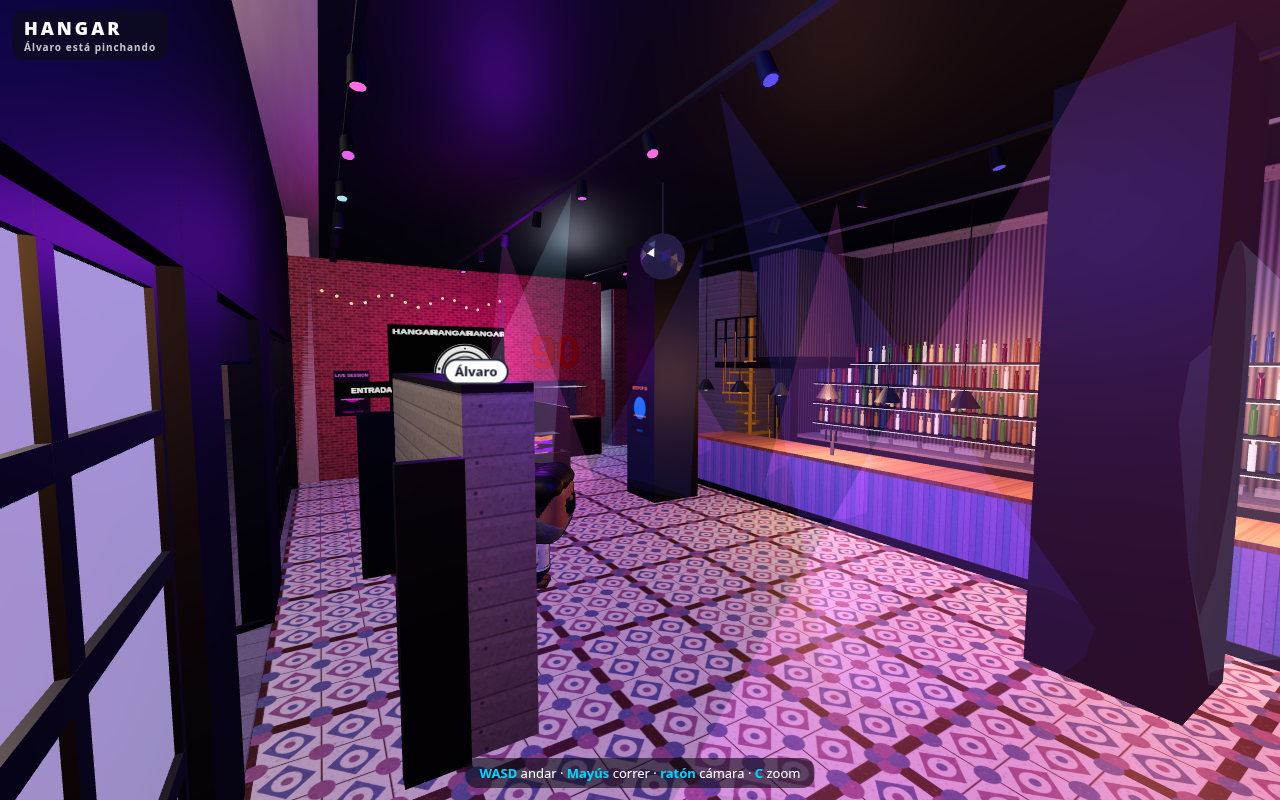
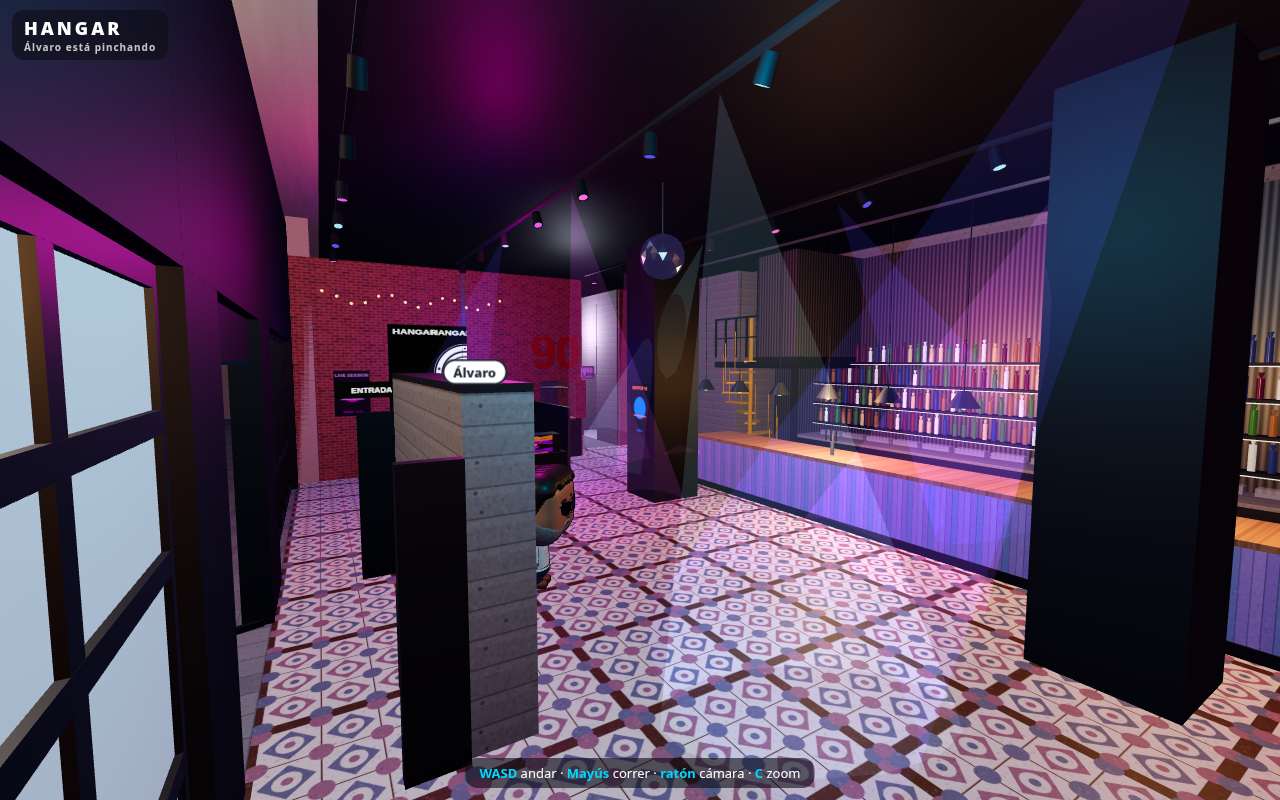
Cámara sin transparencias (brazo con colisión), pasillo y baños más amplios, música indie-rock

diff --git a/index.html b/index.html
@@ -818,7 +818,8 @@ const TS = new Map([[M.brick, 1], [M.tiles, 2.4], [M.concrete, 1.6], [M.corr, 0.
 function addG(g, mat, x = 0, y = 0, z = 0, ry = 0, rx = 0) { // g en coordenadas locales → mundo
   tmpM.makeRotationFromEuler(new THREE.Euler(rx, ry, 0)); tmpM.setPosition(x, y, z); g.applyMatrix4(tmpM); if (TS.has(mat) && g.attributes.uv) worldUV(g, TS.get(mat));
   if (!STATIC.has(mat)) STATIC.set(mat, []); STATIC.get(mat).push(g); return g; }
-const B = (x0, y0, z0, x1, y1, z1, mat) => addG(new THREE.BoxGeometry(Math.abs(x1 - x0), Math.abs(y1 - y0), Math.abs(z1 - z0)), mat, (x0 + x1) / 2, (y0 + y1) / 2, (z0 + z1) / 2);
+const CAMB = []; function camBox(x0, y0, z0, x1, y1, z1) { const a = [Math.min(x0, x1), Math.min(y0, y1), Math.min(z0, z1), Math.max(x0, x1), Math.max(y0, y1), Math.max(z0, z1)]; const h = a[4] - a[1], fx = a[3] - a[0], fz = a[5] - a[2]; if ((h >= 1.4 && Math.max(fx, fz) >= 0.25) || (a[1] >= 2.0 && Math.max(fx, fz) >= 0.5 && h >= 0.04)) CAMB.push(a); } // cajas para el brazo de cámara (sólo piezas grandes: paredes, columnas, forjados, dinteles)
+const B = (x0, y0, z0, x1, y1, z1, mat) => (camBox(x0, y0, z0, x1, y1, z1), addG(new THREE.BoxGeometry(Math.abs(x1 - x0), Math.abs(y1 - y0), Math.abs(z1 - z0)), mat, (x0 + x1) / 2, (y0 + y1) / 2, (z0 + z1) / 2));
 const BC = (x0, y0, z0, x1, y1, z1, mat) => { col(x0, z0, x1, z1); return B(x0, y0, z0, x1, y1, z1, mat); };
 const CYL = (r, h, mat, x, y, z, seg = 12, r2) => addG(new THREE.CylinderGeometry(r2 != null ? r2 : r, r, h, seg), mat, x, y + h / 2, z);
 const PL = (w, h, mat, x, y, z, ry = 0, rx = 0) => addG(new THREE.PlaneGeometry(w, h), mat, x, y, z, ry, rx);
@@ -831,24 +832,25 @@ function mergeUV(list) { let nv = 0, ni = 0; for (const g of list) { nv += g.att
 const dyn = (mesh, parent = scene) => { parent.add(mesh); return mesh; };
 // ---------- PLANO (px del plano 1 → m: X=(px-249)/32-11.44, Z=(py-360)/32) ----------
 const XL = -11.44, XR = 11.44, ZB = -10.56, H = 4.8, T = 0.22;
-const P = { banoChicos: [-11.44, -10.56, -7.6, -8.22], pasillo: [-11.44, -8.22, -6.56, -7.22], banoChicas: [-11.44, -7.22, -8.06, -4.53], guardarropa: [-8.06, -7.22, -6.56, -4.53],
+const ZN = -8.40, ZS = -6.62, ZE = -3.6; // pasillo de baños ensanchado (~1.66 m libres) y baños más grandes
+const P = { banoChicos: [-11.44, -10.56, -7.6, ZN], pasillo: [-11.44, ZN, -6.56, ZS], banoChicas: [-11.44, ZS, -8.06, ZE], guardarropa: [-8.06, ZS, -6.56, ZE],
   notch: [-5.19, -10.56, -3.13, -9.25], botellas: [-1.7, -10.56, 6.81, -9.69], camareros: [-3.13, -9.69, 6.81, -8.28], barra: [-4.25, -8.28, 6.81, -7.34], columna: [-2.31, -6.69, -1.31, -5.69],
   dj: [-6.56, -5.19, -3.97, -1.88], escenario: [7.81, -7.34, 11.44, 0], backstage: [6.81, -10.56, 11.44, -7.34], tabique: [-0.25, -1.72, 3.4, -1.25], puerta: [0.53, 2.97], crisIzq: [-6.0, -0.66], crisDer: [3.84, 10.06] };
-const INT = [{ x0: -6.56, z0: -10.56, x1: 11.44, z1: 0 }, { x0: -11.44, z0: -10.56, x1: -6.56, z1: -4.53 }]; // zonas interiores (para cámara/música)
+const INT = [{ x0: -6.56, z0: -10.56, x1: 11.44, z1: 0 }, { x0: -11.44, z0: -10.56, x1: -6.56, z1: ZE }]; // zonas interiores (para cámara/música)
 // --- suelos
-B(-6.56, -0.05, -10.56, 11.44, 0, 0, M.tiles); B(-7.6, -0.05, -8.22, -6.56, 0, -7.22, M.tiles); B(-11.44, -0.05, -10.56, -7.6, 0, -8.22, M.btiles); B(-11.44, -0.05, -7.22, -8.06, 0, -4.53, M.btiles); B(-11.44, -0.05, -8.22, -7.6, 0, -7.22, M.concrete); B(-8.06, -0.05, -7.22, -6.56, 0, -4.53, M.darkwood);
-B(-7.6, -0.05, -10.56, -6.56, 0, -8.22, M.tiles);
+B(-6.56, -0.05, -10.56, 11.44, 0, 0, M.tiles); B(-7.6, -0.05, ZN, -6.56, 0, ZS, M.tiles); B(-11.44, -0.05, -10.56, -7.6, 0, ZN, M.btiles); B(-11.44, -0.05, ZS, -8.06, 0, ZE, M.btiles); B(-11.44, -0.05, ZN, -7.6, 0, ZS, M.concrete); B(-8.06, -0.05, ZS, -6.56, 0, ZE, M.darkwood);
+B(-7.6, -0.05, -10.56, -6.56, 0, ZN, M.tiles);
 B(-3.13, 0, -9.69, 6.81, 0.06, -8.28, M.darkwood); // tarima de camareros
 // --- techo (solo se ve desde abajo)
 const CEIL = new THREE.Group(); scene.add(CEIL);
-for (const [x0, z0, x1, z1] of [[-11.44, -10.56, 11.44, 0], [-11.44, -10.56, -6.56, -4.53]]) { if (x0 === -11.44 && x1 === 11.44) { const g = new THREE.PlaneGeometry(x1 - -6.56, z1 - z0); const m = new THREE.Mesh(g, M.ceil); m.rotation.x = Math.PI / 2; m.position.set((x1 + -6.56) / 2, H, (z0 + z1) / 2); CEIL.add(m); } else { const m = new THREE.Mesh(new THREE.PlaneGeometry(x1 - x0, z1 - z0), M.ceil); m.rotation.x = Math.PI / 2; m.position.set((x0 + x1) / 2, H - 0.6, (z0 + z1) / 2); CEIL.add(m); } }
+for (const [x0, z0, x1, z1] of [[-11.44, -10.56, 11.44, 0], [-11.44, -10.56, -6.56, ZE]]) { if (x0 === -11.44 && x1 === 11.44) { const g = new THREE.PlaneGeometry(x1 - -6.56, z1 - z0); const m = new THREE.Mesh(g, M.ceil); m.rotation.x = Math.PI / 2; m.position.set((x1 + -6.56) / 2, H, (z0 + z1) / 2); CEIL.add(m); } else { const m = new THREE.Mesh(new THREE.PlaneGeometry(x1 - x0, z1 - z0), M.ceil); m.rotation.x = Math.PI / 2; m.position.set((x0 + x1) / 2, H - 0.6, (z0 + z1) / 2); CEIL.add(m); } }
 // --- muros perimetrales
 BC(XL - T, 0, ZB - T, XR + 1, H + 0.2, ZB, M.concrete); // fondo (por fuera)
 B(-6.56, 0, ZB, -5.19, H, ZB + 0.02, M.brick); // tramo de ladrillo visible al fondo
 BC(...[P.notch[0], 0, P.notch[1], P.notch[2], H, P.notch[3]], M.concrete); // muesca: no es del local → muro macizo
-BC(XL - T, 0, ZB, XL, H, -4.53, M.concrete); // izquierda baños
-BC(-6.56 - T, 0, -4.53, -6.56, H, 0, M.brick); // izquierda junto a la cabina DJ
-BC(XL, 0, -4.53 - T / 2, -6.56, H, -4.53 + T / 2, M.concrete); // exterior bajo baño chicas/guardarropa
+BC(XL - T, 0, ZB, XL, H, ZE, M.concrete); // izquierda baños
+BC(-6.56 - T, 0, ZE, -6.56, H, 0, M.brick); // izquierda junto a la cabina DJ
+BC(XL, 0, ZE - T / 2, -6.56, H, ZE + T / 2, M.concrete); // exterior bajo baño chicas/guardarropa
 BC(XR, 0, ZB, XR + 1, H + 0.2, 0.3, M.brick); // derecha (escenario)
 // --- fachada: machones, cristaleras con cuadrícula negra, puerta
 const FZ = 0.12; const pier = (x0, x1) => { BC(x0, 0, -0.02, x1, H, FZ + 0.12, M.black); };
@@ -864,19 +866,19 @@ crist(...P.crisIzq);
   const leaf = new THREE.Mesh(new THREE.PlaneGeometry(x1 - x0, 2.6), M.glass); leaf.position.set((x1 - x0) / 2 * (s ? -1 : 1), 1.3, 0); g.add(leaf); const fr = new THREE.Mesh(new THREE.BoxGeometry(x1 - x0, 0.06, 0.06), M.frame); fr.position.set(leaf.position.x, 2.6, 0); g.add(fr); const fr2 = fr.clone(); fr2.position.y = 0.03; g.add(fr2);
   g.position.set(s ? b : a, 0, FZ - 0.05); g.rotation.y = s ? 1.25 : -1.25; scene.add(g); } B(a, 2.6, FZ - 0.05, b, 3.0, FZ + 0.05, M.frame); }
 // --- baños: tabiques con huecos de puerta (sin puertas)
-const BT = 0.12, DOOR = [-10.0, -8.85];
-BC(-7.6 - BT / 2, 0, ZB, -7.6 + BT / 2, H, -8.22, M.brick); // derecha baño chicos
-BC(XL, 0, -8.22 - BT / 2, DOOR[0], H, -8.22 + BT / 2, M.concrete); BC(DOOR[1], 0, -8.22 - BT / 2, -7.6, H, -8.22 + BT / 2, M.concrete); B(DOOR[0], 2.2, -8.22 - BT / 2, DOOR[1], H, -8.22 + BT / 2, M.concrete);
-BC(XL, 0, -7.22 - BT / 2, DOOR[0], H, -7.22 + BT / 2, M.concrete); BC(DOOR[1], 0, -7.22 - BT / 2, -6.56, H, -7.22 + BT / 2, M.brick); B(DOOR[0], 2.2, -7.22 - BT / 2, DOOR[1], H, -7.22 + BT / 2, M.concrete);
-BC(-8.06 - BT / 2, 0, -7.22, -8.06 + BT / 2, H, -4.53, M.concrete); // entre baño chicas y guardarropa
+const BT = 0.12, DOOR = [-10.3, -9.0];
+BC(-7.6 - BT / 2, 0, ZB, -7.6 + BT / 2, H, ZN, M.brick); // derecha baño chicos
+BC(XL, 0, ZN - BT / 2, DOOR[0], H, ZN + BT / 2, M.concrete); BC(DOOR[1], 0, ZN - BT / 2, -7.6, H, ZN + BT / 2, M.concrete); B(DOOR[0], 2.2, ZN - BT / 2, DOOR[1], H, ZN + BT / 2, M.concrete);
+BC(XL, 0, ZS - BT / 2, DOOR[0], H, ZS + BT / 2, M.concrete); BC(DOOR[1], 0, ZS - BT / 2, -6.56, H, ZS + BT / 2, M.brick); B(DOOR[0], 2.2, ZS - BT / 2, DOOR[1], H, ZS + BT / 2, M.concrete);
+BC(-8.06 - BT / 2, 0, ZS, -8.06 + BT / 2, H, ZE, M.concrete); // entre baño chicas y guardarropa
 // guardarropa: frente a la sala con mostrador y ventanilla
-BC(-6.56 - BT / 2, 0, -7.22, -6.56 + BT / 2, 1.05, -4.53, M.black); B(-6.56 - BT / 2, 2.1, -7.22, -6.56 + BT / 2, H, -4.53, M.brick); B(-6.56 - 0.25, 1.05, -6.9, -6.56 + 0.25, 1.1, -4.85, M.wood);
-for (const z of [-7.22, -4.53]) B(-6.56 - BT / 2, 1.05, z - 0.15, -6.56 + BT / 2, 2.1, z + 0.15, M.brick);
-for (let i = 0; i < 12; i++) { const z = -7.0 + i * 0.2; CYL(0.012, 0.3, M.metal, -7.3, 1.55, z, 6); } B(-7.9, 1.85, -7.1, -7.0, 1.88, -4.7, M.metal); // perchas
+BC(-6.56 - BT / 2, 0, ZS, -6.56 + BT / 2, 1.05, -5.3, M.black); B(-6.56 - BT / 2, 2.1, ZS, -6.56 + BT / 2, H, -5.3, M.brick); BC(-6.56 - BT / 2, 0, -5.3, -6.56 + BT / 2, H, ZE, M.brick); B(-6.56 - 0.25, 1.05, ZS + 0.25, -6.56 + 0.25, 1.1, -5.45, M.wood);
+for (const z of [ZS, -5.3]) B(-6.56 - BT / 2, 1.05, z - 0.15, -6.56 + BT / 2, 2.1, z + 0.15, M.brick);
+for (let i = 0; i < 12; i++) { const z = -6.4 + i * 0.22; CYL(0.012, 0.3, M.metal, -7.3, 1.55, z, 6); } B(-7.9, 1.85, -6.5, -7.0, 1.88, -3.8, M.metal); // perchas
 // sanitarios (decoración)
 const wc = (x, z, ry) => { const g = new THREE.Group(); const b = new THREE.Mesh(new THREE.CylinderGeometry(0.2, 0.17, 0.4, 14), M.white); b.position.y = 0.2; g.add(b); const t = new THREE.Mesh(new THREE.BoxGeometry(0.4, 0.4, 0.16), M.white); t.position.set(0, 0.55, -0.22); g.add(t); g.position.set(x, 0, z); g.rotation.y = ry; scene.add(g); col(x - 0.3, z - 0.35, x + 0.3, z + 0.3); };
-wc(-11.0, -10.0, Math.PI / 2); wc(-11.0, -5.2, Math.PI / 2); for (const [z0] of [[-9.0]]) BC(-8.4, 0.75, -10.5, -7.7, 0.85, -9.3, M.white); BC(-8.4, 0.75, -6.2, -7.7 + 0.35, 0.85, -4.65, M.white);
-PL(1.0, 0.7, std({ color: '#9fb0c0', metalness: 0.9, roughness: 0.1 }), -7.68, 1.45, -9.9, -Math.PI / 2); PL(1.0, 0.7, std({ color: '#9fb0c0', metalness: 0.9, roughness: 0.1 }), -8.12, 1.45, -5.4, -Math.PI / 2);
+wc(-11.0, -10.0, Math.PI / 2); wc(-11.0, -4.2, Math.PI / 2); for (const [z0] of [[-9.0]]) BC(-8.4, 0.75, -10.5, -7.7, 0.85, -9.3, M.white); BC(-8.6, 0.75, -5.4, -8.12, 0.85, -4.0, M.white);
+PL(1.0, 0.7, std({ color: '#9fb0c0', metalness: 0.9, roughness: 0.1 }), -7.68, 1.45, -9.9, -Math.PI / 2); PL(1.0, 0.7, std({ color: '#9fb0c0', metalness: 0.9, roughness: 0.1 }), -8.13, 1.45, -4.7, -Math.PI / 2);
 // --- cabina DJ elevada
 const DJ = { x: -5.55, z: -3.55, y: 0.62 };
 { const [x0, z0, x1, z1] = P.dj; col(x0, z0, x1, z1); B(x0, 0, z0, x1, 0.6, z1, M.black); B(x0, 0.6, z0, x1, 0.62, z1, M.darkwood);
@@ -1081,7 +1083,7 @@ const LAMPS = []; for (const [x, z] of [[-12, 8.7], [2.4, 8.7], [-26, 8.7], [14.
 { const c = cv(128, 128, (x, w, h) => { const g = x.createRadialGradient(64, 64, 0, 64, 64, 64); g.addColorStop(0, 'rgba(255,214,160,0.55)'); g.addColorStop(1, 'rgba(255,214,160,0)'); x.fillStyle = g; x.fillRect(0, 0, w, h); }); const t = new THREE.CanvasTexture(c); t.colorSpace = THREE.SRGBColorSpace; const mat = new THREE.MeshBasicMaterial({ map: t, transparent: true, blending: THREE.AdditiveBlending, depthWrite: false });
   for (const L of LAMPS) { const m = new THREE.Mesh(new THREE.PlaneGeometry(11, 11), mat); m.rotation.x = -Math.PI / 2; m.position.set(L.x, 0.02, L.z); scene.add(m); } }
 // límites: no se pisa la avenida ni la calle lateral (bordillo), ni detrás del edificio
-col(-80, CURB, 80, CURB + 40); col(15.2, -60, 40, CURB + 1); col(-80, -60, 12.4, -10.81); col(-80, -60, -60, 20); col(12.4, -60, 15.2, -24); col(-6.56, -10.81, XL, -4.53 - 0.11);
+col(-80, CURB, 80, CURB + 40); col(15.2, -60, 40, CURB + 1); col(-80, -60, 12.4, -10.81); col(-80, -60, -60, 20); col(12.4, -60, 15.2, -24); /* (antes un colisor tapaba toda la zona de baños) */
 // ---------- tráfico: coches, motos y autobuses (un sentido, de izq. a dcha.) ----------
 const CARS = []; const carCols = ['#b8bcc4', '#1e2a44', '#7a1e1e', '#e8e8e8', '#2a2a2e', '#3a5a3a', '#c0a060'];
 const LANES = [10.8, 14.4, 18.0, 21.6];
@@ -1104,7 +1106,7 @@ const PL_ = (c, i, d, x, y, z) => { const l = new THREE.PointLight(c, i, d, 1.6)
 const LIGHTS = { bar: PL_('#ffb860', 9, 9, 1.2, 2.3, -7.3), bar2: LITE ? null : PL_('#ffb860', 7, 8, 5.2, 2.3, -7.3), room1: PL_('#B03CFF', 15, 14, -1.5, 4.0, -3.0), room2: PL_('#FF2BD0', LITE ? 0 : 11, 12, 4.5, 4.0, -2.5),
   stage: PL_('#ff2a1a', 16, 10, 9.6, 3.8, -3.7), dj: PL_('#2A3CFF', 8, 6, -4.6, 2.6, -3.5), baths: PL_('#e8f0ff', 7, 9, -9.4, 3.6, -7.7), street: PL_('#ffd6a0', 16, 22, 2.4, 7.0, 8.0), street2: LITE ? null : PL_('#ffd6a0', 14, 22, -12, 7.0, 8.0), portico: PL_('#fff0d8', 11, 14, 1.5, 5.3, 2.0) };
 if (!LITE) { LIGHTS.stage.castShadow = false; }
-window.HW = { scene, COLL, P, DJ, STG, SPOTS, INT, CEIL, BLD, LITE, LIGHTS, RAILS, BEAMS, BALL, PARS, WARM, GARL, LED_C, LED_T, ledScreen, LEDM, updTraffic, CARS, ROOF, MARQ, bake: () => bakeStatic(m => (m === M.slats || m === M.awning || m === M.leaf) ? ROOF : null), M, H, XL, XR, ZB, CURB, PZ, PORT_H, DOWN };
+window.HW = { scene, COLL, P, DJ, STG, SPOTS, INT, CEIL, BLD, LITE, LIGHTS, RAILS, BEAMS, BALL, PARS, WARM, GARL, LED_C, LED_T, ledScreen, LEDM, updTraffic, CARS, ROOF, MARQ, CAMB, bake: () => bakeStatic(m => (m === M.slats || m === M.awning || m === M.leaf) ? ROOF : null), M, H, XL, XR, ZB, CURB, PZ, PORT_H, DOWN };
 })();
 </script>
 <script type="module">document.getElementById('logo').src = window.HANGAR_IMG.logo; // ===== HANGAR · juego (exploración libre) =====
@@ -1174,34 +1176,58 @@ function stepPlayer(dt) { const I = readInput(); const f = V3(-Math.sin(cam.yaw)
   if (mag > 0.05) { const ty = Math.atan2(want.x, want.z); const d = angDiff(P.yaw, ty); P.turn = d / dt; P.yaw += d * Math.min(1, dt * 10); } else P.turn = 0;
   const tv = mag > 0.05 ? want.normalize().multiplyScalar(spd) : V3(); P.vel.lerp(tv, Math.min(1, dt * 10)); P.pos.addScaledVector(P.vel, dt); collide(P.pos);
   ant.position.copy(P.pos); ant.rotation.y = P.yaw; ant.userData.update(dt, { speed: Math.hypot(P.vel.x, P.vel.z) / 2.4, grounded: true, turn: clamp(P.turn || 0, -6, 6) * 0.1 }); }
-// ---------- cámara (seguimiento + corte por plano cercano en interiores) ----------
+// ---------- cámara (seguimiento + brazo con colisión; sin ocultar geometría) ----------
 const cam = { yaw: 0, pitch: 0.32, target: V3() }; let camDist = TOUCH && innerHeight > innerWidth ? 6.4 : 5.6, camMode = 'follow', camFix = null;
 cam.yaw = P.yaw + Math.PI; cam.target.copy(P.pos).add(V3(0, 1.2, 0));
 function updCam(dt) { if (camMode !== 'follow') return; const tgt = P.pos.clone().add(V3(0, 1.25, 0)); cam.target.lerp(tgt, Math.min(1, dt * 8));
   const spd = Math.hypot(P.vel.x, P.vel.z); if (spd > 0.4 && T - lastManual > 1.6) cam.yaw += angDiff(cam.yaw, P.yaw + Math.PI) * Math.min(1, dt * 0.9 * spd / 2.4);
   const ins = inside(P.pos); const dist = camDist * (ins ? 1 : 1.15); const dir = V3(Math.sin(cam.yaw) * Math.cos(cam.pitch), Math.sin(cam.pitch), Math.cos(cam.yaw) * Math.cos(cam.pitch));
-  camera.position.copy(cam.target).addScaledVector(dir, dist); if (ins) camera.position.y = Math.min(camera.position.y, W.H + 2.5);
-  const near = Math.max(0.1, dist - (ins ? 2.0 : 2.6)); if (Math.abs(camera.near - near) > 0.01) { camera.near = near; camera.updateProjectionMatrix(); } camera.lookAt(cam.target); }
+  // brazo de cámara: nada se oculta ni se vuelve transparente; si hay una pared/techo entre el jugador y la cámara, la cámara se acerca
+  let hit = armCast(cam.target, dir, dist); if (hit < dist * 0.8) { const k = clamp(1 - hit / dist, 0, 1), pt = Math.min(1.0, cam.pitch + 0.6 * k); const d2 = V3(Math.sin(cam.yaw) * Math.cos(pt), Math.sin(pt), Math.cos(cam.yaw) * Math.cos(pt)); const h2 = armCast(cam.target, d2, dist); if (h2 >= hit * 0.9) { dir.copy(d2); hit = h2; } } /* en sitios estrechos la cámara sube para mirar por encima de la cabeza */ const want = Math.max(0.15, Math.min(dist, hit - 0.22)); armLen = want < armLen ? want : armLen + (want - armLen) * Math.min(1, dt * 3);
+  camera.position.copy(cam.target).addScaledVector(dir, armLen); if (camera.near !== 0.1) { camera.near = 0.1; camera.updateProjectionMatrix(); } camera.lookAt(cam.target); }
+let armLen = 5; const ARMB = W.CAMB.concat([[-11.6, W.H - 0.02, -10.7, 11.6, W.H + 3, 0.1], [-60, W.PORT_H - 0.05, -1, 12.8, W.PORT_H + 60, 4.4], [-11.6, W.H - 0.62, -10.7, -6.56, W.H, W.P.banoChicas[3]]]);
+function armCast(o, d, max) { let best = max; for (const b of ARMB) { let t0 = 0, t1 = best; let ok = true;
+    for (let k = 0; k < 3; k++) { const oo = k === 0 ? o.x : k === 1 ? o.y : o.z, dd = k === 0 ? d.x : k === 1 ? d.y : d.z, mn = b[k] - 0.12, mx = b[k + 3] + 0.12;
+      if (Math.abs(dd) < 1e-6) { if (oo < mn || oo > mx) { ok = false; break; } } else { let ta = (mn - oo) / dd, tb = (mx - oo) / dd; if (ta > tb) { const q = ta; ta = tb; tb = q; } if (ta > t0) t0 = ta; if (tb < t1) t1 = tb; if (t0 > t1) { ok = false; break; } } }
+    if (ok && t0 > 0.05 && t0 < best) best = t0; } return best; }
 function fitView() { camera.aspect = innerWidth / innerHeight; camera.fov = camera.aspect < 1 ? Math.min(78, 55 / Math.max(0.5, camera.aspect) ** 0.5) : 55; camera.updateProjectionMatrix(); renderer.setSize(innerWidth, innerHeight); }
 addEventListener('resize', fitView); fitView();
-// ---------- música (WebAudio sintetizada; adaptada del DJ de La Curva) ----------
-let AC = null, master = null, lp = null; const BPM = 122, BEAT = 60 / BPM; let nextBeat = 0, beatN = 0; let MUTE = Q.has('mute');
-function startAudio() { if (AC || MUTE) return; try { AC = new (window.AudioContext || window.webkitAudioContext)(); lp = AC.createBiquadFilter(); lp.type = 'lowpass'; lp.frequency.value = 18000; master = AC.createGain(); master.gain.value = 0; master.connect(lp); lp.connect(AC.destination); nextBeat = AC.currentTime + 0.1; $('hint').classList.add('off'); } catch (_) {} }
-function tone(f, d, type, v, slide, t) { const o = AC.createOscillator(), g = AC.createGain(); o.type = type; o.frequency.setValueAtTime(f, t); if (slide) o.frequency.exponentialRampToValueAtTime(Math.max(30, f * slide), t + d); g.gain.setValueAtTime(v, t); g.gain.exponentialRampToValueAtTime(0.001, t + d); o.connect(g); g.connect(master); o.start(t); o.stop(t + d + 0.02); }
-let NB = null; function noise(d, v, t, hp) { if (!NB) { NB = AC.createBuffer(1, AC.sampleRate * 0.3 | 0, AC.sampleRate); const ch = NB.getChannelData(0); for (let i = 0; i < ch.length; i++) ch[i] = (Math.random() * 2 - 1); }
-  const s = AC.createBufferSource(); s.buffer = NB; const f = AC.createBiquadFilter(); f.type = 'highpass'; f.frequency.value = hp || 6000; const g = AC.createGain(); g.gain.setValueAtTime(v, t); g.gain.exponentialRampToValueAtTime(0.001, t + d); s.connect(f); f.connect(g); g.connect(master); s.start(t); s.stop(t + d + 0.02); }
-const BASS = [55, 55, 65.4, 73.4, 55, 55, 82.4, 73.4], CH = [[261.6, 329.6, 392], [293.7, 349.2, 440], [246.9, 311.1, 370], [220, 277.2, 329.6]];
-function beatSound(b, t) { tone(120, 0.18, 'sine', 0.55, 0.3, t); noise(0.05, 0.1, t + BEAT / 2); if (b % 2) noise(0.14, 0.09, t, 1800); tone(BASS[b % 8], BEAT * 0.45, 'sawtooth', 0.09, 0, t + BEAT / 2);
-  if (b % 4 === 0) for (const f of CH[(b >> 4) & 3]) tone(f, 0.22, 'square', 0.03, 0, t); if (b % 8 === 6) tone(659.3 * ((b >> 3) % 2 ? 1 : 0.89), 0.3, 'triangle', 0.05, 0, t + BEAT * 0.5); }
-function updAudio() { if (!AC) return; while (nextBeat < AC.currentTime + 0.25) { beatSound(beatN++, nextBeat); nextBeat += BEAT; }
-  const d = P.pos.distanceTo(V3(W.DJ.x, 0, W.DJ.z)), ins = inside(P.pos); const vol = (ins ? 0.5 : 0.28) * clamp(1.4 - d / 30, 0.15, 1); master.gain.setTargetAtTime(vol, AC.currentTime, 0.2); lp.frequency.setTargetAtTime(ins ? 16000 : 900, AC.currentTime, 0.3); }
-const beatPhase = () => AC ? ((AC.currentTime - (nextBeat - BEAT)) / BEAT) : (T / BEAT) % 1;
+// ---------- música indie-rock (WebAudio procedural, original) ----------
+let AC = null, master = null, lp = null, gtr = null; const BPM = 124, BEAT = 60 / BPM, ST8 = BEAT / 2; let nextStep = 0, stepN = 0, beatN = 0, T0 = 0; let MUTE = Q.has('mute');
+// música INDIE-ROCK procedural (original): batería en directo, bajo a corcheas, guitarra rítmica rasgueada con saturación, arpegio jangle limpio
+function startAudio() { if (AC || MUTE) return; try { AC = new (window.AudioContext || window.webkitAudioContext)(); lp = AC.createBiquadFilter(); lp.type = 'lowpass'; lp.frequency.value = 18000; master = AC.createGain(); master.gain.value = 0; master.connect(lp); lp.connect(AC.destination);
+  const ws = AC.createWaveShaper(), cu = new Float32Array(512); for (let i = 0; i < 512; i++) { const x = i / 255.5 - 1; cu[i] = Math.tanh(x * 3.2); } ws.curve = cu; const gl = AC.createBiquadFilter(); gl.type = 'lowpass'; gl.frequency.value = 3200; gtr = AC.createGain(); gtr.gain.value = 0.5; gtr.connect(ws); ws.connect(gl); gl.connect(master);
+  nextStep = T0 = AC.currentTime + 0.1; $('hint').classList.add('off'); } catch (_) {} }
+function tone(f, d, type, v, slide, t, dest) { const o = AC.createOscillator(), g = AC.createGain(); o.type = type; o.frequency.setValueAtTime(f, t); if (slide) o.frequency.exponentialRampToValueAtTime(Math.max(30, f * slide), t + d); g.gain.setValueAtTime(v, t); g.gain.exponentialRampToValueAtTime(0.001, t + d); o.connect(g); g.connect(dest || master); o.start(t); o.stop(t + d + 0.02); }
+let NB = null; function noise(d, v, t, hp, type) { if (!NB) { NB = AC.createBuffer(1, AC.sampleRate * 0.5 | 0, AC.sampleRate); const ch = NB.getChannelData(0); for (let i = 0; i < ch.length; i++) ch[i] = (Math.random() * 2 - 1); }
+  const s = AC.createBufferSource(); s.buffer = NB; const f = AC.createBiquadFilter(); f.type = type || 'highpass'; f.frequency.value = hp || 6000; const g = AC.createGain(); g.gain.setValueAtTime(v, t); g.gain.exponentialRampToValueAtTime(0.001, t + d); s.connect(f); f.connect(g); g.connect(master); s.start(t); s.stop(t + d + 0.02); }
+// cuerda pulsada: diente de sierra con filtro que se cierra (guitarra sintética)
+function pluck(f, d, v, t, bright, dest) { const o = AC.createOscillator(), fl = AC.createBiquadFilter(), g = AC.createGain(); o.type = 'sawtooth'; o.frequency.setValueAtTime(f, t); o.detune.setValueAtTime(Math.random() * 8 - 4, t); fl.type = 'lowpass'; fl.Q.value = 2; fl.frequency.setValueAtTime(bright, t); fl.frequency.exponentialRampToValueAtTime(Math.max(200, bright * 0.18), t + d * 0.7);
+  g.gain.setValueAtTime(0.0001, t); g.gain.exponentialRampToValueAtTime(v, t + 0.004); g.gain.exponentialRampToValueAtTime(0.001, t + d); o.connect(fl); fl.connect(g); g.connect(dest || master); o.start(t); o.stop(t + d + 0.03); }
+// progresión E – C#m – A – B (bajo + voces de acorde)
+const PROG = [{ b: 82.41, c: [164.8, 246.9, 329.6, 415.3] }, { b: 69.3, c: [138.6, 207.7, 277.2, 329.6] }, { b: 55, c: [110, 164.8, 220, 277.2] }, { b: 61.74, c: [123.5, 185, 246.9, 311.1] }];
+const ARP = [0, 2, 1, 3, 2, 1, 3, 2], STRUM = [1, 0, 0.6, 0.7, 0, 0.7, 0.6, 0.8]; // acentos del rasgueo por corchea
+function stepSound(s, t) { const bar = s >> 3, e = s & 7, sec = bar % 16, ch = PROG[bar & 3], full = sec >= 4, chorus = sec >= 12, ROCK = LITE ? 0.8 : 1;
+  // batería: bombo en 1 y 3 (+ "y" del 3), caja en 2 y 4, charles a corcheas, crash al empezar sección
+  if (e === 0 || e === 4 || (full && e === 5 && bar % 2)) tone(110, 0.16, 'sine', 0.6, 0.35, t);
+  if (e === 2 || e === 6) { noise(0.16, 0.22, t, 1700, 'bandpass'); tone(190, 0.08, 'triangle', 0.18, 0.6, t); }
+  noise(e % 2 ? 0.03 : 0.05, e % 2 ? 0.05 : 0.08, t, 7000); if ((sec === 4 || sec === 12) && e === 0) noise(1.1, 0.12, t, 4500);
+  if (sec === 15 && e >= 4) tone(160 - e * 12, 0.12, 'sine', 0.35, 0.5, t); // redoble de toms
+  // bajo a corcheas (con quinta de paso)
+  if (full || e % 2 === 0) tone(e === 7 ? ch.b * 1.5 : ch.b, ST8 * 0.9, 'sawtooth', 0.07, 0, t);
+  // guitarra rítmica saturada (rasgueo con pequeño desfase entre cuerdas)
+  if (full && STRUM[e] > 0) { const v = 0.05 * STRUM[e] * (chorus ? 1.2 : 0.9); ch.c.forEach((f, k) => pluck(f, chorus ? 0.32 : 0.22, v, t + k * 0.008 * (e % 2 ? -1 : 1) + (e % 2 ? 0.024 : 0), 2600, gtr)); }
+  // arpegio jangle limpio (octava arriba), siempre en intro y en estrofas; en estribillo, melodía
+  if (!chorus || !LITE) { const f = ch.c[ARP[e]] * 2; if (!chorus) pluck(f, 0.4, 0.035 * ROCK, t, 4200); else if (e % 2 === 0) pluck(ch.c[(e >> 1) % 4] * 2 * (e === 6 ? 1.122 : 1), 0.5, 0.04, t, 3600); } }
+function updAudio() { if (!AC) return; while (nextStep < AC.currentTime + 0.25) { stepSound(stepN, nextStep); stepN++; beatN = stepN >> 1; nextStep += ST8; }
+  const d = P.pos.distanceTo(V3(W.DJ.x, 0, W.DJ.z)), ins = inside(P.pos); const vol = (ins ? 0.55 : 0.3) * clamp(1.4 - d / 30, 0.15, 1); master.gain.setTargetAtTime(vol, AC.currentTime, 0.2); lp.frequency.setTargetAtTime(ins ? 16000 : 900, AC.currentTime, 0.3); }
+const beatPhase = () => AC ? ((((AC.currentTime - T0) / BEAT) % 1) + 1) % 1 : (T / BEAT) % 1;
 // ---------- luces animadas ----------
 const LC = W.LED_C.getContext('2d'); let ledT = 0;
 function drawLED(t) { const w = 256, h = 128; LC.fillStyle = '#05050a'; LC.fillRect(0, 0, w, h); const hue = (t * 40) % 360; for (let i = 0; i < 16; i++) { const v = 0.5 + 0.5 * Math.sin(t * 3 + i * 0.7); LC.fillStyle = `hsl(${(hue + i * 12) % 360},90%,${20 + 40 * v}%)`; LC.fillRect(i * 16, h * (1 - v * 0.9), 14, h * v * 0.9); }
   LC.fillStyle = '#ffffff'; LC.font = 'bold 34px Arial Black, sans-serif'; LC.textAlign = 'center'; LC.globalAlpha = 0.85; LC.fillText('HANGAR', w / 2, 50 + Math.sin(t * 2) * 6); LC.globalAlpha = 1; for (let y = 0; y < h; y += 3) { LC.fillStyle = 'rgba(0,0,0,.25)'; LC.fillRect(0, y, w, 1); } W.LED_T.needsUpdate = true; }
 const COLS = ['#B03CFF', '#FF2BD0', '#2A3CFF', '#00D5FF'].map(c => new THREE.Color(c));
-function updLights(dt) { const b = beatPhase(), kick = Math.exp(-b * 5), bar = Math.floor((AC ? beatN : T / BEAT) / 4);
+function updLights(dt) { const b = beatPhase(), kick = Math.exp(-b * 5), bar = Math.floor((AC ? Math.max(0, (AC.currentTime - T0) / BEAT) : T / BEAT) / 4);
   W.BALL.rotation.y += dt * 0.8; const L = W.LIGHTS; L.room1.color.copy(COLS[bar & 3]); if (L.room2.intensity) L.room2.color.copy(COLS[(bar + 2) & 3]); L.room1.intensity = 9 + 6 * kick;
   L.dj.color.copy(COLS[(bar + 1) & 3]); L.dj.intensity = 5 + 5 * kick; L.stage.color.setHSL(((bar >> 2) & 1) ? 0.64 : 0.01, 1, 0.5); L.stage.intensity = 10 + 6 * kick;
   for (const [i, p] of W.PARS.entries()) p.material.color.copy(L.stage.color).multiplyScalar(0.8 + 1.4 * (((i + bar) % 3 === 0) ? kick : 0.4));
@@ -1222,7 +1248,7 @@ loop();
 // ---------- API de pruebas ----------
 window.GAME = { P, cam, W, ant, alv, camera, renderer,
   step(n = 1) { for (let i = 0; i < n; i++) update(1 / 60); renderer.render(scene, topCam || camera); updTags(); },
-  setInput(i) { INPUT = i; }, tp(x, z, yaw) { P.pos.set(x, 0, z); if (yaw != null) { P.yaw = yaw; cam.yaw = yaw + Math.PI; } cam.target.copy(P.pos).add(V3(0, 1.25, 0)); collide(P.pos); ant.position.copy(P.pos); ant.rotation.y = P.yaw; },
+  setInput(i) { INPUT = i; }, arm() { return armLen; }, tp(x, z, yaw) { P.pos.set(x, 0, z); if (yaw != null) { P.yaw = yaw; cam.yaw = yaw + Math.PI; } cam.target.copy(P.pos).add(V3(0, 1.25, 0)); collide(P.pos); ant.position.copy(P.pos); ant.rotation.y = P.yaw; },
   view(px, py, pz, tx, ty, tz, fov) { camMode = 'fixed'; topCam = null; W.CEIL.visible = true; W.BLD.visible = true; W.ROOF.visible = true; camera.position.set(px, py, pz); camera.near = 0.1; camera.fov = fov || camera.fov; camera.updateProjectionMatrix(); camera.lookAt(tx, ty, tz); },
   follow() { camMode = 'follow'; topCam = null; W.CEIL.visible = true; W.BLD.visible = true; W.ROOF.visible = true; fitView(); },
   top() { W.CEIL.visible = false; W.BLD.visible = false; W.ROOF.visible = false; for (const t of TAGS) t.el.remove(); TAGS.length = 0; const a = innerWidth / innerHeight, hw = a > 1 ? 18 : 13, hh = hw / a; topCam = new THREE.OrthographicCamera(-hw, hw, hh, -hh, 1, 200); topCam.position.set(1.5, 80, a > 1 ? -1 : 0); topCam.up.set(0, 0, -1); topCam.lookAt(1.5, 0, a > 1 ? -1 : 0); camMode = 'fixed'; },
